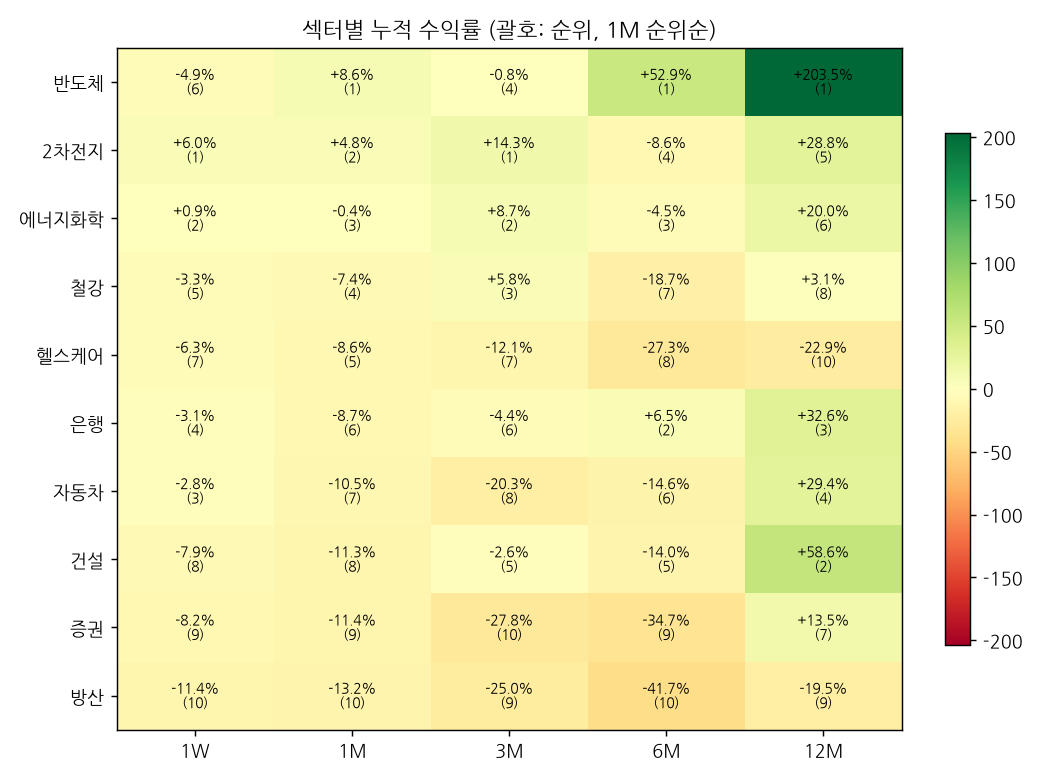
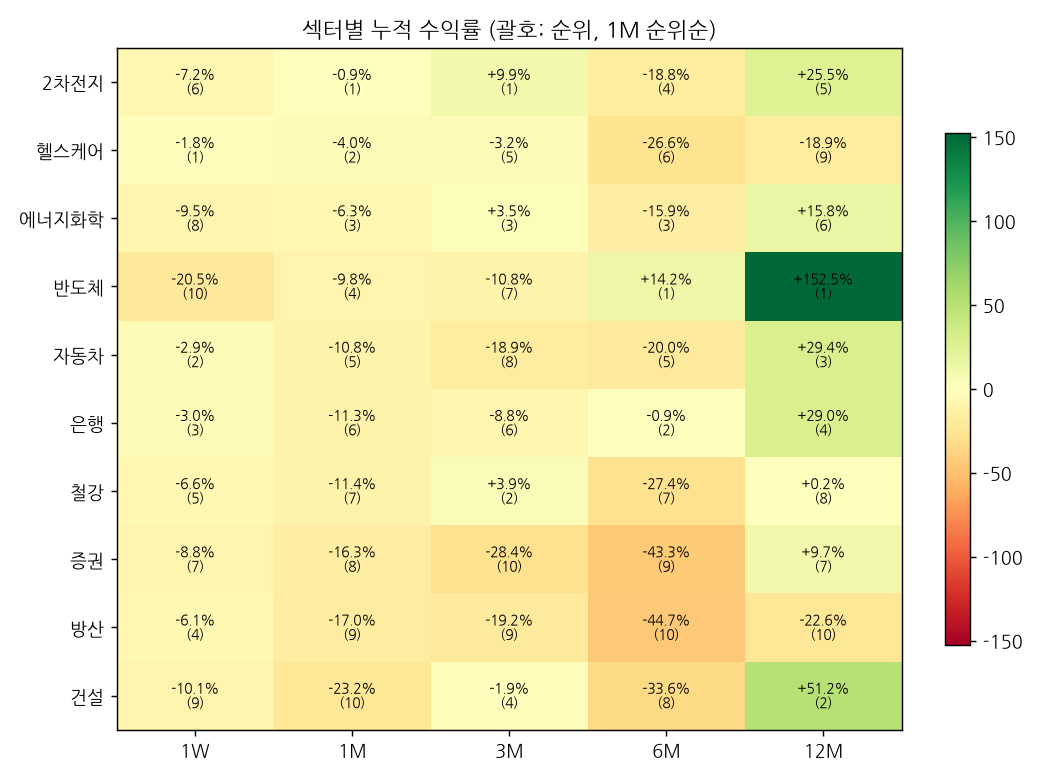
report: 2026-10-18

diff --git a/reports/latest.md b/reports/latest.md
@@ -1,65 +1,65 @@
-# 섹터 로테이션 & 관심종목 리포트 — 2026-10-12 (weekly)
+# 섹터 로테이션 & 관심종목 리포트 — 2026-10-18 (weekly)
 
-![heatmap](heatmap_2026-10-12.png)
+![heatmap](heatmap_2026-10-18.png)
 
 ## 1. 시그널
-- 🔴 **[주도 약화] 건설** — 12M 2위·6M 5위 → 1M 8위·1W 8위
-- 🔴 **[1M 순위 급변] 건설** — 3위 → 8위 (▼5)
-- 🔴 **[주도 약화] 반도체** — 12M 1위·6M 1위 → 1M 1위·1W 6위
-- 🔴 **[1W 순위 급변] 반도체** — 2위 → 6위 (▼4)
-- 🔴 **[1W 순위 급변] 방산** — 4위 → 10위 (▼6)
-- 🔴 **[1M 순위 급변] 방산** — 4위 → 10위 (▼6)
-- 🔴 **[주도 약화] 은행** — 12M 3위·6M 2위 → 1M 6위·1W 4위
-- 🔴 **[3M 순위 급변] 은행** — 2위 → 6위 (▼4)
-- 🟢 **[1M 순위 급변] 2차전지** — 5위 → 2위 (▲3)
-- 🟢 **[3M 순위 급변] 2차전지** — 4위 → 1위 (▲3)
-- 🟢 **[3M 순위 급변] 반도체** — 7위 → 4위 (▲3)
-- 🟢 **[1W 순위 급변] 은행** — 9위 → 4위 (▲5)
-- 🟢 **[1M 순위 급변] 자동차** — 10위 → 7위 (▲3)
-- 🟢 **[1M 순위 급변] 헬스케어** — 9위 → 5위 (▲4)
+- 🔴 **[1W 순위 급변] 2차전지** — 1위 → 6위 (▼5)
+- 🔴 **[주도 약화] 건설** — 12M 2위·6M 8위 → 1M 10위·1W 9위
+- 🔴 **[주도 약화] 반도체** — 12M 1위·6M 1위 → 1M 4위·1W 10위
+- 🔴 **[1W 순위 급변] 반도체** — 6위 → 10위 (▼4)
+- 🔴 **[1M 순위 급변] 반도체** — 1위 → 4위 (▼3)
+- 🔴 **[3M 순위 급변] 반도체** — 4위 → 7위 (▼3)
+- 🔴 **[주도 약화] 에너지화학** — 12M 6위·6M 3위 → 1M 3위·1W 8위
+- 🔴 **[1W 순위 급변] 에너지화학** — 2위 → 8위 (▼6)
+- 🔴 **[주도 약화] 은행** — 12M 4위·6M 2위 → 1M 6위·1W 3위
+- 🔴 **[1M 순위 급변] 철강** — 4위 → 7위 (▼3)
+- 🟢 **[1W 순위 급변] 방산** — 10위 → 4위 (▲6)
+- 🟢 **[신규 주도 후보] 헬스케어** — 12M 9위·6M 6위 → 1M 2위·1W 1위
+- 🟢 **[1W 순위 급변] 헬스케어** — 7위 → 1위 (▲6)
+- 🟢 **[1M 순위 급변] 헬스케어** — 5위 → 2위 (▲3)
 
-_순위변동 기준: 2026-10-05 리포트 대비_
+_순위변동 기준: 2026-10-12 리포트 대비_
 
 ## 2. 섹터 누적수익률 맵 (1M 순위순)
 | 섹터 | 1W | 1M | 3M | 6M | 12M |
 |---|---|---|---|---|---|
-| **반도체** | -4.9% (6위 ▼4) | +8.6% (1위) | -0.8% (4위 ▲3) | +52.9% (1위) | +203.5% (1위) |
-| **2차전지** | +6.0% (1위 ▲2) | +4.8% (2위 ▲3) | +14.3% (1위 ▲3) | -8.6% (4위 ▲1) | +28.8% (5위) |
-| **에너지화학** | +0.9% (2위 ▼1) | -0.4% (3위 ▼1) | +8.7% (2위 ▼1) | -4.5% (3위) | +20.0% (6위) |
-| **철강** | -3.3% (5위 ▲2) | -7.4% (4위 ▲2) | +5.8% (3위) | -18.7% (7위 ▼1) | +3.1% (8위) |
-| **헬스케어** | -6.3% (7위 ▼2) | -8.6% (5위 ▲4) | -12.1% (7위 ▼1) | -27.3% (8위 ▲2) | -22.9% (10위) |
-| **은행** | -3.1% (4위 ▲5) | -8.7% (6위 ▲2) | -4.4% (6위 ▼4) | +6.5% (2위) | +32.6% (3위) |
-| **자동차** | -2.8% (3위 ▲3) | -10.5% (7위 ▲3) | -20.3% (8위 ▲1) | -14.6% (6위 ▲1) | +29.4% (4위) |
-| **건설** | -7.9% (8위 ▲2) | -11.3% (8위 ▼5) | -2.6% (5위) | -14.0% (5위 ▼1) | +58.6% (2위) |
-| **증권** | -8.2% (9위 ▼1) | -11.4% (9위 ▼2) | -27.8% (10위) | -34.7% (9위) | +13.5% (7위) |
-| **방산** | -11.4% (10위 ▼6) | -13.2% (10위 ▼6) | -25.0% (9위 ▼1) | -41.7% (10위 ▼2) | -19.5% (9위) |
+| **2차전지** | -7.2% (6위 ▼5) | -0.9% (1위 ▲1) | +9.9% (1위) | -18.8% (4위) | +25.5% (5위) |
+| **헬스케어** | -1.8% (1위 ▲6) | -4.0% (2위 ▲3) | -3.2% (5위 ▲2) | -26.6% (6위 ▲2) | -18.9% (9위 ▲1) |
+| **에너지화학** | -9.5% (8위 ▼6) | -6.3% (3위) | +3.5% (3위 ▼1) | -15.9% (3위) | +15.8% (6위) |
+| **반도체** | -20.5% (10위 ▼4) | -9.8% (4위 ▼3) | -10.8% (7위 ▼3) | +14.2% (1위) | +152.5% (1위) |
+| **자동차** | -2.9% (2위 ▲1) | -10.8% (5위 ▲2) | -18.9% (8위) | -20.0% (5위 ▲1) | +29.4% (3위 ▲1) |
+| **은행** | -3.0% (3위 ▲1) | -11.3% (6위) | -8.8% (6위) | -0.9% (2위) | +29.0% (4위 ▼1) |
+| **철강** | -6.6% (5위) | -11.4% (7위 ▼3) | +3.9% (2위 ▲1) | -27.4% (7위) | +0.2% (8위) |
+| **증권** | -8.8% (7위 ▲2) | -16.3% (8위 ▲1) | -28.4% (10위) | -43.3% (9위) | +9.7% (7위) |
+| **방산** | -6.1% (4위 ▲6) | -17.0% (9위 ▲1) | -19.2% (9위) | -44.7% (10위) | -22.6% (10위 ▼1) |
+| **건설** | -10.1% (9위 ▼1) | -23.2% (10위 ▼2) | -1.9% (4위 ▲1) | -33.6% (8위 ▼3) | +51.2% (2위) |
 
 ## 3. 관심종목 자동 업데이트
 변동 없음
 
 ## 4. 기술적 지표 점검
-### 삼성전자 (005930) — 현재가 256,500
-- **이평선**: 혼조 · MA5 267,500▼ / MA20 266,600▼ / MA60 257,617▼ / MA120 273,288▼
-- **크로스(최근)**: MA5 하향이탈, MA20 하향이탈, MA60 하향이탈, MA120 하향이탈
-- **거래량**: 보합 · 5/20일 0.83x · 20/60일 0.7x · 당일/20일 0.25x
-- **120일 매물벽**: 262,548 (+2.4%, 비중 10.7%) · 상단 총매물 68.2% → 매물대 하단(무거움) · 최대매물대 270,269 (+5.4%)
-- **Cup&Handle**: 패턴 미성립 (점수 28) · 깊이 49.5% · 컵 28일 · 핸들 35일/되돌림 15.6% · 피벗 288,000 (+12.3%)
+### 삼성전자 (005930) — 현재가 217,000
+- **이평선**: 혼조 · MA5 228,800▼ / MA20 258,650▼ / MA60 254,875▼ / MA120 273,592▼
+- **크로스(최근)**: 데드 5/20 (2026-10-13), MA60 하향이탈
+- **거래량**: 보합 · 5/20일 1.31x · 20/60일 0.8x · 당일/20일 1.04x
+- **120일 매물벽**: 247,106 (+13.9%, 비중 5.6%) · 상단 총매물 93.5% → 매물대 하단(무거움) · 최대매물대 270,269 (+24.5%)
+- **Cup&Handle**: 패턴 미성립 (점수 28) · 깊이 49.5% · 컵 28일 · 핸들 39일/되돌림 29.0% · 피벗 288,000 (+32.7%)
   - 미충족: 컵 길이 ≥30일, 우측 회복 ≥85%, 핸들 5~25일, 핸들 되돌림 ≤15%, 핸들 컵 상단 절반
 
-### SK하이닉스 (000660) — 현재가 1,621,000
-- **이평선**: 혼조 · MA5 1,729,600▼ / MA20 1,784,050▼ / MA60 1,706,600▼ / MA120 1,844,842▼
-- **크로스(최근)**: 데드 5/20 (2026-10-07), MA5 하향이탈, MA20 하향이탈, MA60 하향이탈, MA120 하향이탈
-- **거래량**: 보합 · 5/20일 0.77x · 20/60일 0.68x · 당일/20일 0.27x
-- **120일 매물벽**: 1,674,562 (+3.3%, 비중 10.0%) · 상단 총매물 75.1% → 매물대 하단(무거움) · 최대매물대 1,754,104 (+8.2%)
-- **Cup&Handle**: 패턴 미성립 (점수 28) · 깊이 58.3% · 컵 24일 · 핸들 10일/되돌림 16.5% · 피벗 1,935,000 (+19.4%)
-  - 미충족: 깊이 12~50%, 컵 길이 ≥30일, 우측 회복 ≥85%, 핸들 되돌림 ≤15%, 핸들 컵 상단 절반
+### SK하이닉스 (000660) — 현재가 1,265,000
+- **이평선**: 혼조 · MA5 1,397,800▼ / MA20 1,692,250▼ / MA60 1,668,033▼ / MA120 1,851,892▼
+- **크로스(최근)**: 없음
+- **거래량**: 보합 · 5/20일 1.35x · 20/60일 0.79x · 당일/20일 1.36x
+- **120일 매물벽**: 1,564,042 (+23.6%, 비중 6.9%) · 상단 총매물 94.4% → 매물대 하단(무거움) · 최대매물대 1,794,792 (+41.9%)
+- **Cup&Handle**: 패턴 미성립 (점수 42) · 깊이 58.6% · 컵 75일 · 핸들 1일/되돌림 6.4% · 피벗 1,332,000 (+5.3%)
+  - 미충족: 깊이 12~50%, 우측 회복 ≥85%, 핸들 5~25일, 핸들 컵 상단 절반
 
-### 현대차 (005380) — 현재가 325,500
-- **이평선**: 역배열 · MA5 336,400▼ / MA20 357,650▼ / MA60 388,592▼ / MA120 485,975▼
-- **크로스(최근)**: MA5 하향이탈
-- **거래량**: 보합 · 5/20일 1.01x · 20/60일 0.73x · 당일/20일 0.51x
-- **120일 매물벽**: 387,521 (+19.1%, 비중 6.4%) · 상단 총매물 100.0% → 매물대 하단(무거움) · 최대매물대 638,312 (+96.1%)
-- **Cup&Handle**: 패턴 미성립 (점수 14) · 깊이 59.1% · 컵 89일 · 핸들 0일/되돌림 0% · 피벗 334,000 (+2.6%)
+### 현대차 (005380) — 현재가 314,000
+- **이평선**: 혼조 · MA5 309,400▲ / MA20 342,375▼ / MA60 380,158▼ / MA120 478,892▼
+- **크로스(최근)**: MA5 상향돌파
+- **거래량**: 보합 · 5/20일 1.36x · 20/60일 0.85x · 당일/20일 1.53x
+- **120일 매물벽**: 381,625 (+21.5%, 비중 5.6%) · 상단 총매물 98.6% → 매물대 하단(무거움) · 최대매물대 402,208 (+28.1%)
+- **Cup&Handle**: 패턴 미성립 (점수 14) · 깊이 63.1% · 컵 92일 · 핸들 0일/되돌림 0% · 피벗 320,500 (+2.1%)
   - 미충족: 깊이 12~50%, 우측 회복 ≥85%, 핸들 5~25일, 핸들 되돌림 ≤15%, 핸들 컵 상단 절반, 핸들 거래량 감소
 
 ---

diff --git a/reports/2026-10-18.md b/reports/2026-10-18.md
@@ -1,0 +1,66 @@
+# 섹터 로테이션 & 관심종목 리포트 — 2026-10-18 (weekly)
+
+![heatmap](heatmap_2026-10-18.png)
+
+## 1. 시그널
+- 🔴 **[1W 순위 급변] 2차전지** — 1위 → 6위 (▼5)
+- 🔴 **[주도 약화] 건설** — 12M 2위·6M 8위 → 1M 10위·1W 9위
+- 🔴 **[주도 약화] 반도체** — 12M 1위·6M 1위 → 1M 4위·1W 10위
+- 🔴 **[1W 순위 급변] 반도체** — 6위 → 10위 (▼4)
+- 🔴 **[1M 순위 급변] 반도체** — 1위 → 4위 (▼3)
+- 🔴 **[3M 순위 급변] 반도체** — 4위 → 7위 (▼3)
+- 🔴 **[주도 약화] 에너지화학** — 12M 6위·6M 3위 → 1M 3위·1W 8위
+- 🔴 **[1W 순위 급변] 에너지화학** — 2위 → 8위 (▼6)
+- 🔴 **[주도 약화] 은행** — 12M 4위·6M 2위 → 1M 6위·1W 3위
+- 🔴 **[1M 순위 급변] 철강** — 4위 → 7위 (▼3)
+- 🟢 **[1W 순위 급변] 방산** — 10위 → 4위 (▲6)
+- 🟢 **[신규 주도 후보] 헬스케어** — 12M 9위·6M 6위 → 1M 2위·1W 1위
+- 🟢 **[1W 순위 급변] 헬스케어** — 7위 → 1위 (▲6)
+- 🟢 **[1M 순위 급변] 헬스케어** — 5위 → 2위 (▲3)
+
+_순위변동 기준: 2026-10-12 리포트 대비_
+
+## 2. 섹터 누적수익률 맵 (1M 순위순)
+| 섹터 | 1W | 1M | 3M | 6M | 12M |
+|---|---|---|---|---|---|
+| **2차전지** | -7.2% (6위 ▼5) | -0.9% (1위 ▲1) | +9.9% (1위) | -18.8% (4위) | +25.5% (5위) |
+| **헬스케어** | -1.8% (1위 ▲6) | -4.0% (2위 ▲3) | -3.2% (5위 ▲2) | -26.6% (6위 ▲2) | -18.9% (9위 ▲1) |
+| **에너지화학** | -9.5% (8위 ▼6) | -6.3% (3위) | +3.5% (3위 ▼1) | -15.9% (3위) | +15.8% (6위) |
+| **반도체** | -20.5% (10위 ▼4) | -9.8% (4위 ▼3) | -10.8% (7위 ▼3) | +14.2% (1위) | +152.5% (1위) |
+| **자동차** | -2.9% (2위 ▲1) | -10.8% (5위 ▲2) | -18.9% (8위) | -20.0% (5위 ▲1) | +29.4% (3위 ▲1) |
+| **은행** | -3.0% (3위 ▲1) | -11.3% (6위) | -8.8% (6위) | -0.9% (2위) | +29.0% (4위 ▼1) |
+| **철강** | -6.6% (5위) | -11.4% (7위 ▼3) | +3.9% (2위 ▲1) | -27.4% (7위) | +0.2% (8위) |
+| **증권** | -8.8% (7위 ▲2) | -16.3% (8위 ▲1) | -28.4% (10위) | -43.3% (9위) | +9.7% (7위) |
+| **방산** | -6.1% (4위 ▲6) | -17.0% (9위 ▲1) | -19.2% (9위) | -44.7% (10위) | -22.6% (10위 ▼1) |
+| **건설** | -10.1% (9위 ▼1) | -23.2% (10위 ▼2) | -1.9% (4위 ▲1) | -33.6% (8위 ▼3) | +51.2% (2위) |
+
+## 3. 관심종목 자동 업데이트
+변동 없음
+
+## 4. 기술적 지표 점검
+### 삼성전자 (005930) — 현재가 217,000
+- **이평선**: 혼조 · MA5 228,800▼ / MA20 258,650▼ / MA60 254,875▼ / MA120 273,592▼
+- **크로스(최근)**: 데드 5/20 (2026-10-13), MA60 하향이탈
+- **거래량**: 보합 · 5/20일 1.31x · 20/60일 0.8x · 당일/20일 1.04x
+- **120일 매물벽**: 247,106 (+13.9%, 비중 5.6%) · 상단 총매물 93.5% → 매물대 하단(무거움) · 최대매물대 270,269 (+24.5%)
+- **Cup&Handle**: 패턴 미성립 (점수 28) · 깊이 49.5% · 컵 28일 · 핸들 39일/되돌림 29.0% · 피벗 288,000 (+32.7%)
+  - 미충족: 컵 길이 ≥30일, 우측 회복 ≥85%, 핸들 5~25일, 핸들 되돌림 ≤15%, 핸들 컵 상단 절반
+
+### SK하이닉스 (000660) — 현재가 1,265,000
+- **이평선**: 혼조 · MA5 1,397,800▼ / MA20 1,692,250▼ / MA60 1,668,033▼ / MA120 1,851,892▼
+- **크로스(최근)**: 없음
+- **거래량**: 보합 · 5/20일 1.35x · 20/60일 0.79x · 당일/20일 1.36x
+- **120일 매물벽**: 1,564,042 (+23.6%, 비중 6.9%) · 상단 총매물 94.4% → 매물대 하단(무거움) · 최대매물대 1,794,792 (+41.9%)
+- **Cup&Handle**: 패턴 미성립 (점수 42) · 깊이 58.6% · 컵 75일 · 핸들 1일/되돌림 6.4% · 피벗 1,332,000 (+5.3%)
+  - 미충족: 깊이 12~50%, 우측 회복 ≥85%, 핸들 5~25일, 핸들 컵 상단 절반
+
+### 현대차 (005380) — 현재가 314,000
+- **이평선**: 혼조 · MA5 309,400▲ / MA20 342,375▼ / MA60 380,158▼ / MA120 478,892▼
+- **크로스(최근)**: MA5 상향돌파
+- **거래량**: 보합 · 5/20일 1.36x · 20/60일 0.85x · 당일/20일 1.53x
+- **120일 매물벽**: 381,625 (+21.5%, 비중 5.6%) · 상단 총매물 98.6% → 매물대 하단(무거움) · 최대매물대 402,208 (+28.1%)
+- **Cup&Handle**: 패턴 미성립 (점수 14) · 깊이 63.1% · 컵 92일 · 핸들 0일/되돌림 0% · 피벗 320,500 (+2.1%)
+  - 미충족: 깊이 12~50%, 우측 회복 ≥85%, 핸들 5~25일, 핸들 되돌림 ≤15%, 핸들 컵 상단 절반, 핸들 거래량 감소
+
+---
+_자동 생성. 투자 판단의 참고 자료이며 매매 권유가 아닙니다._
